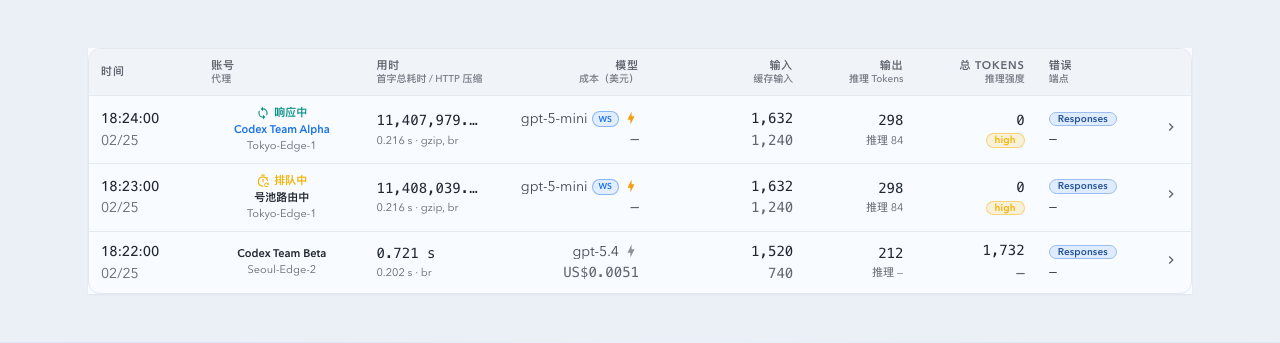
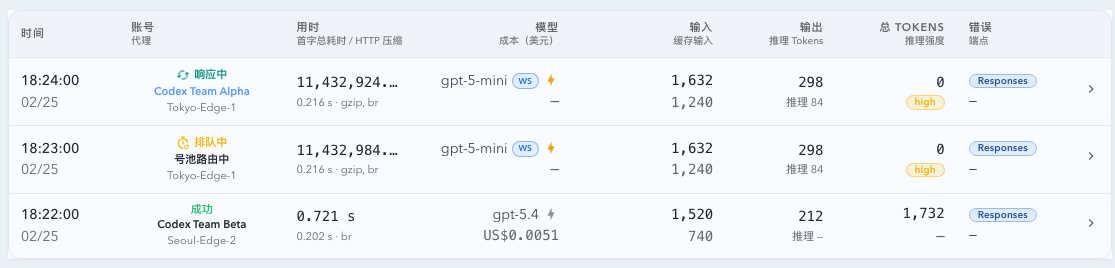
fix(web): keep invocation status visible in account column

diff --git a/web/src/components/InvocationTable.tsx b/web/src/components/InvocationTable.tsx
@@ -95,6 +95,22 @@ function resolveStatusMeta(status?: string | null): StatusMeta {
   return { variant: "secondary", label: raw };
 }
 
+function statusTextClassName(variant: StatusMeta["variant"]) {
+  switch (variant) {
+    case "success":
+      return "text-success";
+    case "warning":
+      return "text-warning";
+    case "error":
+      return "text-error";
+    case "default":
+      return "text-info";
+    case "secondary":
+    default:
+      return "text-base-content/70";
+  }
+}
+
 interface InvocationRowViewModel {
   record: ApiInvocation;
   rowKey: string;
@@ -958,10 +974,20 @@ export function InvocationTable({
                               motion="dynamic"
                               className="justify-center text-[11px] font-semibold"
                             />
-                          ) : null}
+                          ) : (
+                            <span
+                              className={cn(
+                                "block max-w-full truncate whitespace-nowrap text-center text-[11px] font-semibold leading-none",
+                                statusTextClassName(row.meta.variant),
+                              )}
+                              data-testid="invocation-proxy-badge"
+                              title={row.statusLabel}
+                            >
+                              {row.statusLabel}
+                            </span>
+                          )}
                           <div
                             className="mx-auto flex w-fit max-w-full items-center justify-center overflow-hidden text-center text-[11px] font-semibold leading-none text-base-content"
-                            data-testid="invocation-proxy-badge"
                           >
                             <span
                               className="inline-flex max-w-full min-w-0 items-center justify-center truncate whitespace-nowrap leading-none"
@@ -976,7 +1002,6 @@ export function InvocationTable({
                                   : undefined,
                               )}
                             </span>
-                            <span className="sr-only">{row.statusLabel}</span>
                           </div>
                           <span
                             className="block w-full truncate whitespace-nowrap text-center text-[11px] text-base-content/70"